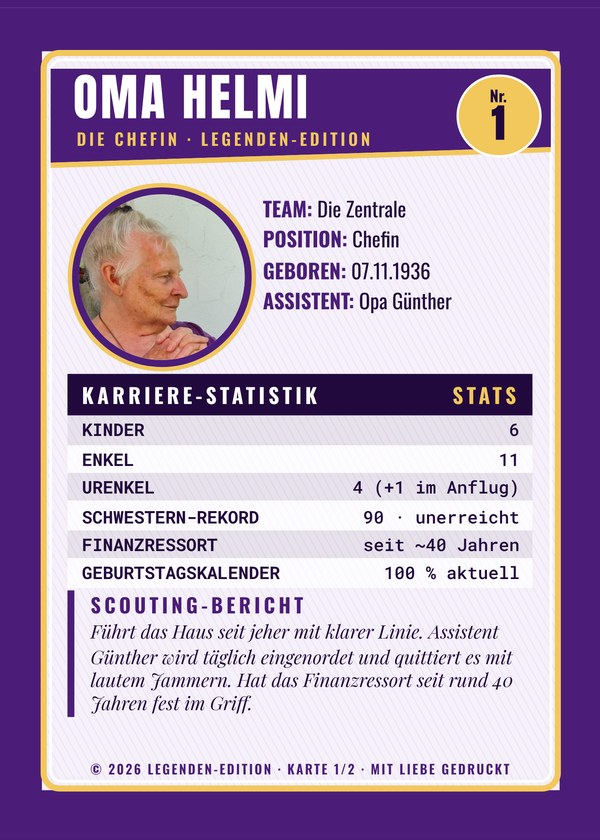
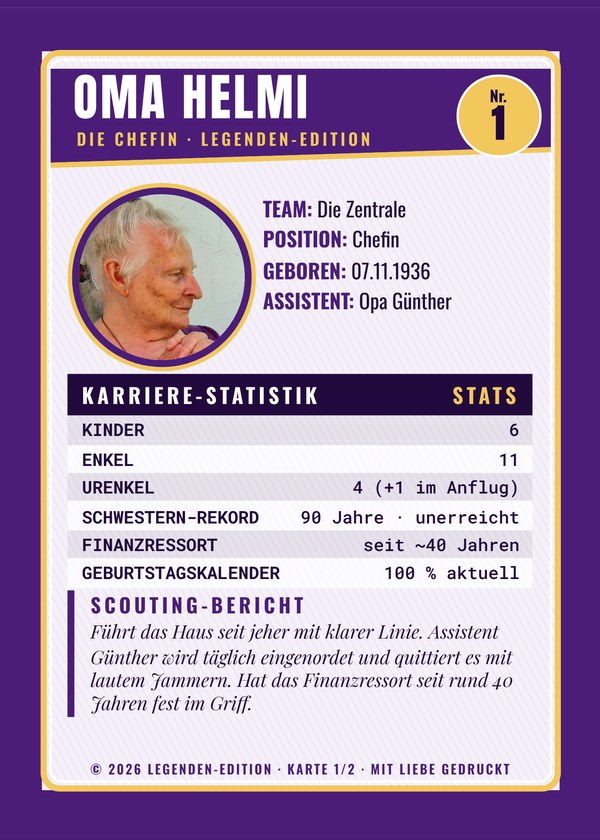
Oma Helmi 90: nicer portrait crops, smoother cutout, '90 Jahre' in sister record
Claude-Session: https://claude.ai/code/session_018nT7KqqyjdTSBHjrZwiVdB

Changed region(s): [[0.12, 0.2167, 0.36, 0.4333], [0.57, 0.5881, 0.63, 0.619], [0.51, 0.5881, 0.54, 0.619]]

diff --git a/data/certs.js b/data/certs.js
@@ -121,7 +121,7 @@ window.WAS = {
       variety: "Legende · Base", grade: 10, gradeLabel: "MAKELLOS", pop: 1, popHigher: 0,
       sub: { Regiment: 10, Finanzen: 10, Familie: 10, Krone: 10 },
       front: "img/helmi90_01_front.jpg", back: "img/helmi90_01_back.jpg", finish: "gold",
-      facts: [["Geboren","07.11.1936"],["Position","Chefin · Finanzministerin"],["Kinder · Enkel · Urenkel","6 · 11 · 4 (+1 im Anflug)"],["Schwestern-Rekord","90 · unerreicht"],["Assistent","Opa Günther"]],
+      facts: [["Geboren","07.11.1936"],["Position","Chefin · Finanzministerin"],["Kinder · Enkel · Urenkel","6 · 11 · 4 (+1 im Anflug)"],["Schwestern-Rekord","90 Jahre · unerreicht"],["Assistent","Opa Günther"]],
       notes: "Führt das Haus seit jeher mit klarer Linie und steuert die Großfamilie per Tablet aus der Zentrale. Ihr Geburtstagskalender ist aktueller als jedes Einwohnermeldeamt. Krone sitzt, Note glatt 10."
     },
     {
